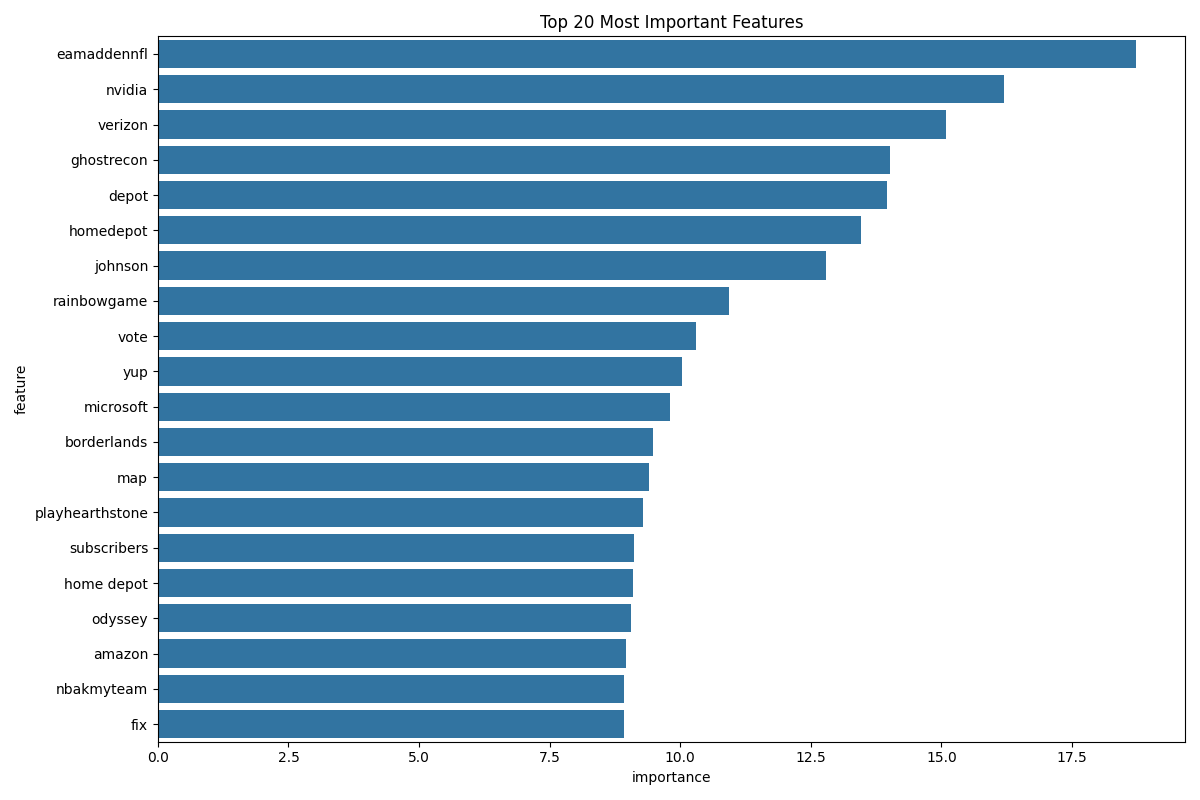
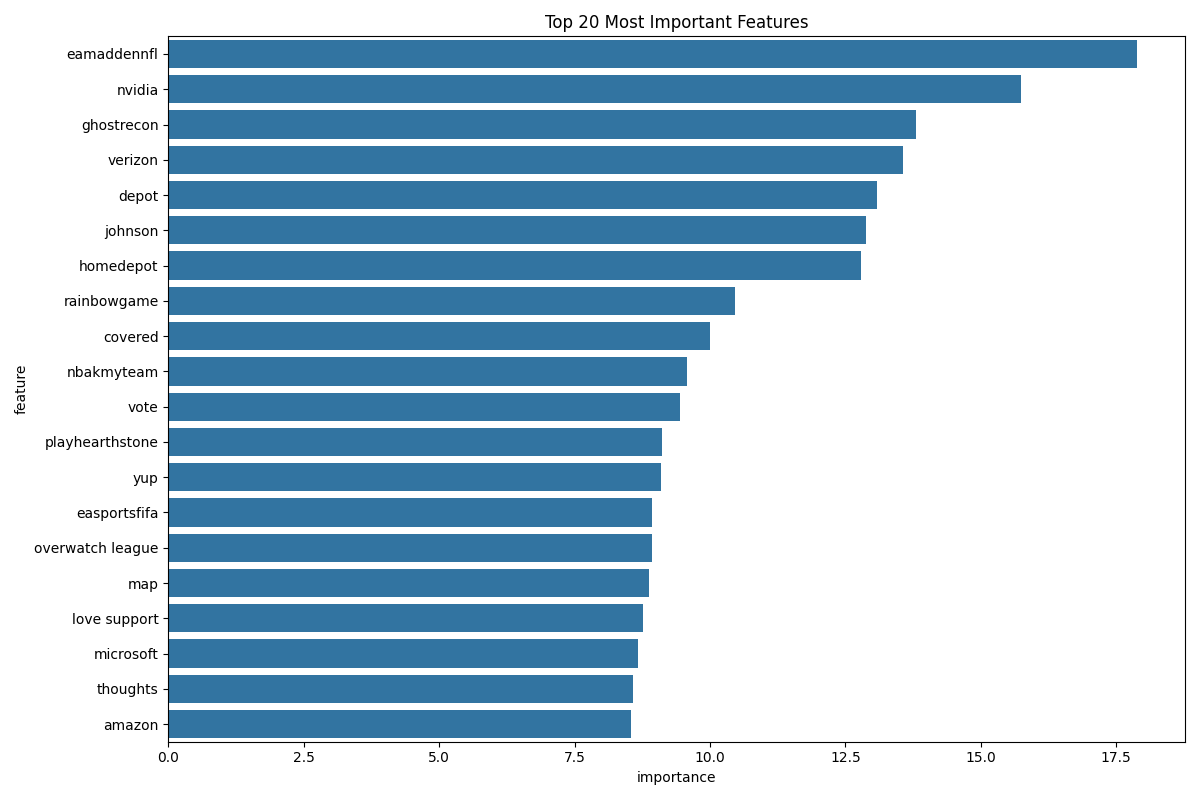
feat(nlp): update stop words

diff --git a/nlp/main.py b/nlp/main.py
@@ -122,16 +122,10 @@ def apply_text_preprocessing(data, text_col):
 
 def extract_features(X_train, X_test):
     """Extract TF-IDF features from text data."""
-    english_stopwords = [
-        "the", "and", "is", "in", "to", "of", "that", "was", "for",
-        "on", "it", "this", "have", "has", "had", "with", "you", "they",
-        "at", "be", "use", "your", "we", "can", "will", "or", "my", "than",
-        "then", "else", "what", "when", "who", "which", "there", "from"
-    ]
     
     print("\nExtracting TF-IDF features...")
     vectorizer = TfidfVectorizer(
-        stop_words=english_stopwords,
+        stop_words='english',
         max_features=MAX_FEATURES,
         ngram_range=NGRAM_RANGE,
         min_df=2,
